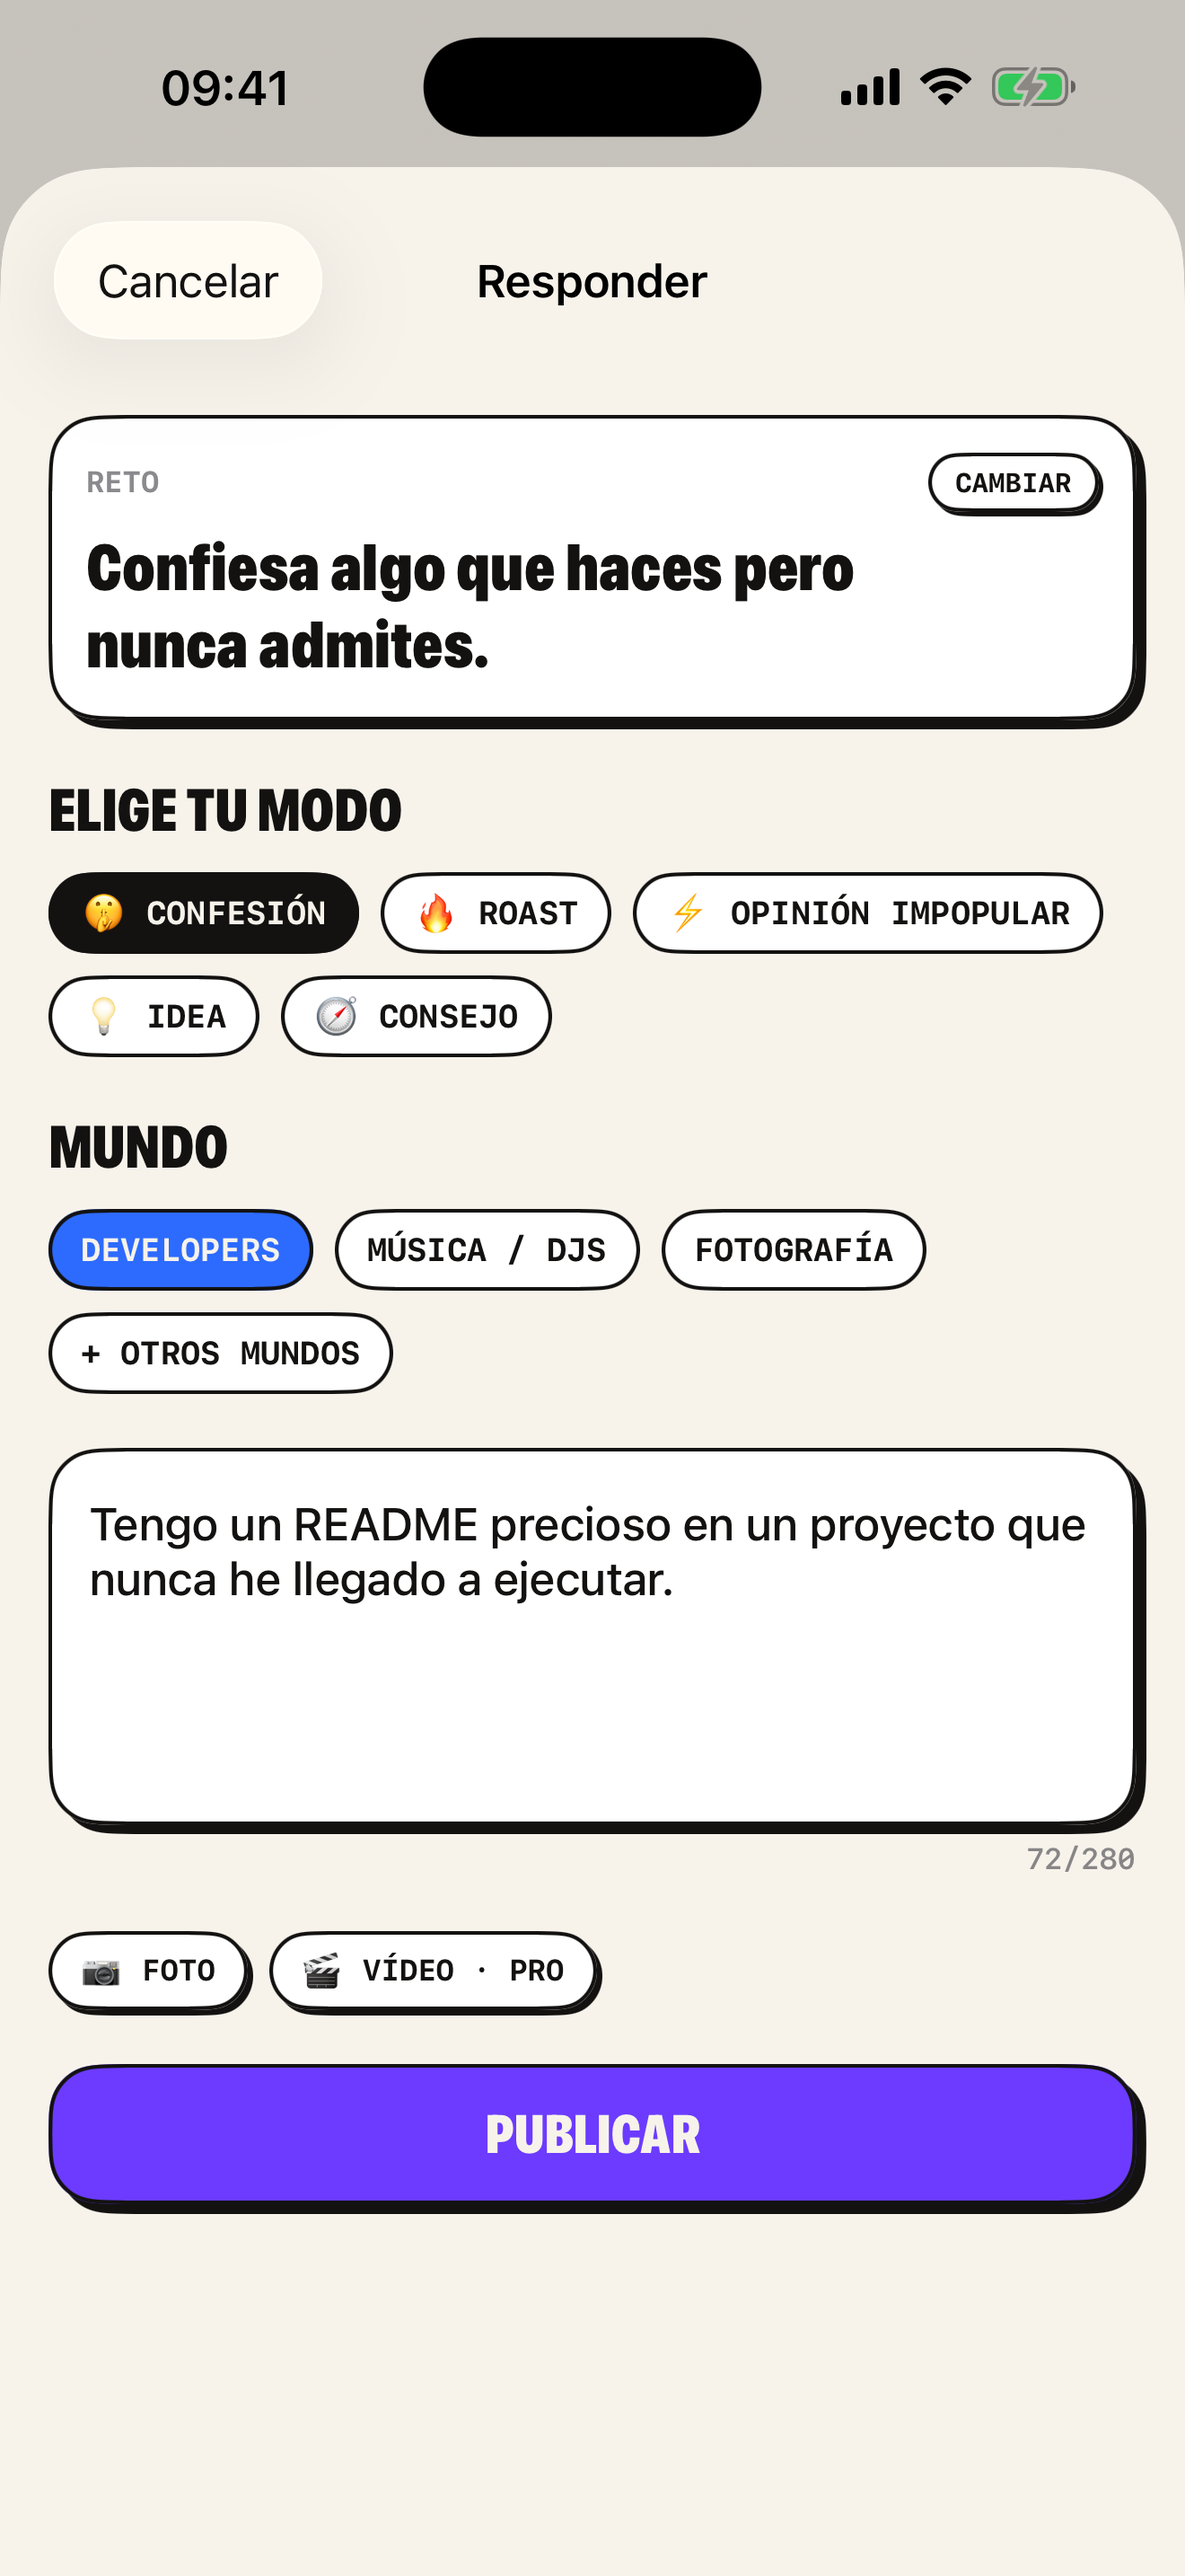
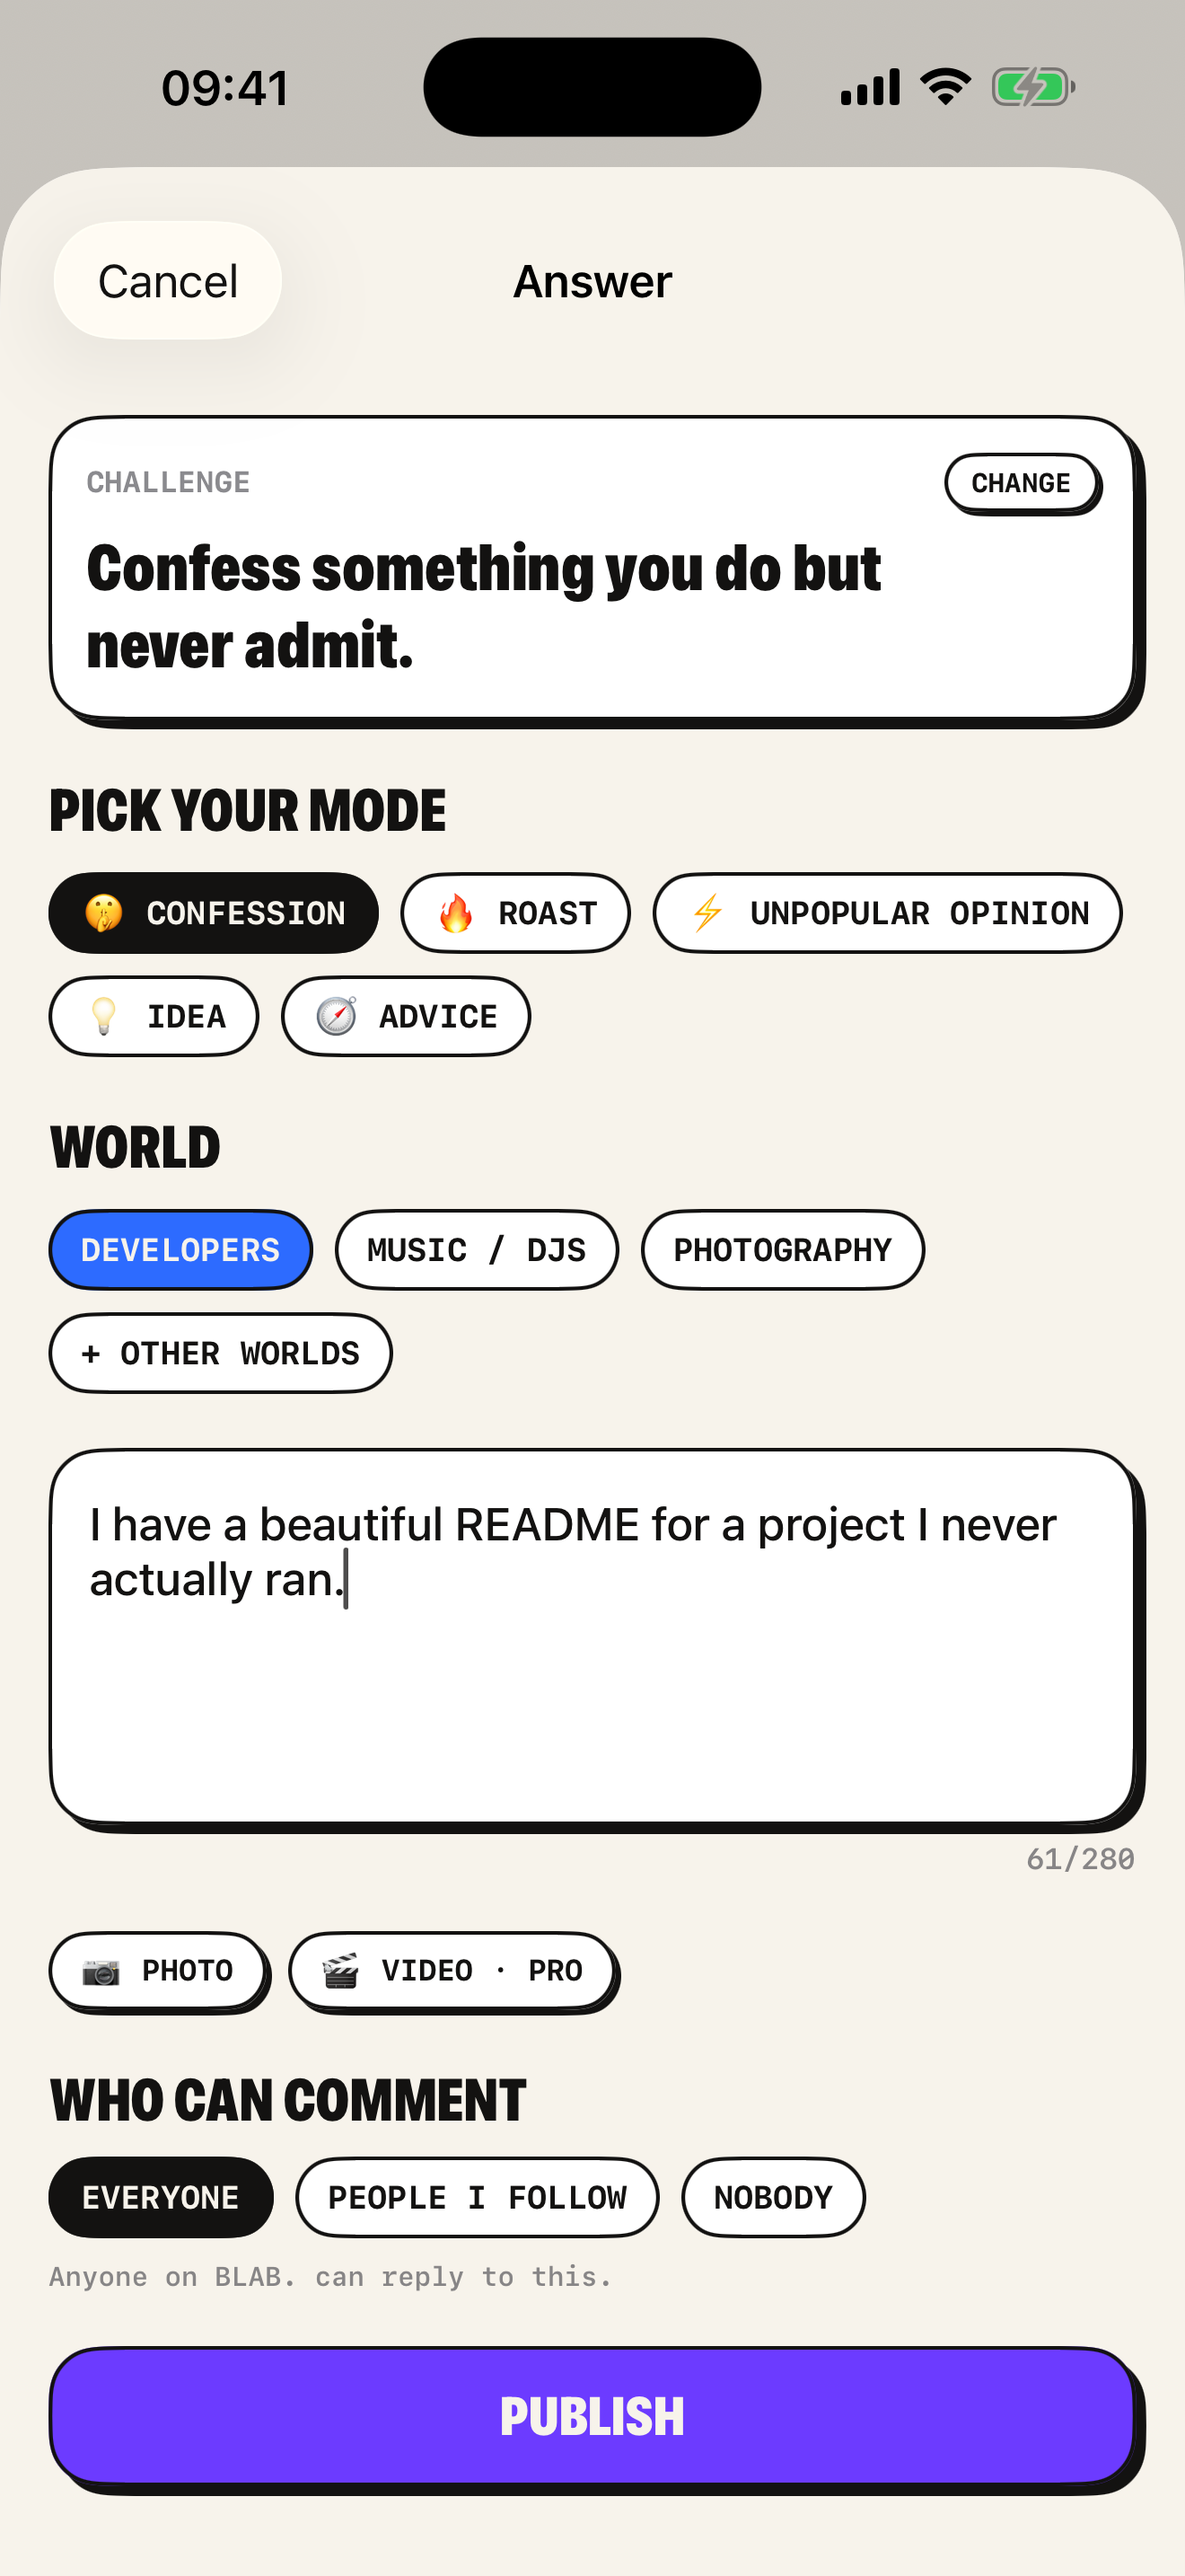
BLAB: English UI captures and matching copy
Replace the ficha screens with the English App Store set (Today,
Answer, Worlds), announce English and Spanish, and use the app's own
mode label "unpopular opinion" instead of "hot take".

Claude-Session: https://claude.ai/code/session_019uTd13EUdhrJdupoBuPZ8c

diff --git a/data/portfolio.ts b/data/portfolio.ts
@@ -259,8 +259,8 @@ export const products: AppProduct[] = [
     statusText: 'LAUNCHING',
     flagship: false,
     platforms: 'iOS',
-    languages: 'Spanish',
-    oneLiner: 'A social app of daily micro-challenges. Answer today’s challenge in your mode — confession, roast, hot take — inside worlds that get your context.',
+    languages: 'English, Spanish',
+    oneLiner: 'A social app of daily micro-challenges. Answer today’s challenge in your mode — confession, roast, unpopular opinion — inside worlds that get your context.',
     tagline: 'Answer challenges. Pick your mode. Stand out.',
     highlight: 'Stand out.',
     lede: 'One challenge a day. Five modes to answer it. Eighteen worlds that get your context. Reactions that mean something — no generic like. Challenge + mode + world = a post with context.',
@@ -274,7 +274,7 @@ export const products: AppProduct[] = [
     ],
     features: [
       { id: '01', title: 'A challenge a day.', desc: 'Every day the app proposes a challenge. Never stare at an empty box again — you always know what to post.' },
-      { id: '02', title: '5 modes.', desc: 'Confession, roast, hot take, idea, advice. Pick how you answer, and everyone knows the tone before they read.' },
+      { id: '02', title: '5 modes.', desc: 'Confession, roast, unpopular opinion, idea, advice. Pick how you answer, and everyone knows the tone before they read.' },
       { id: '03', title: '18 worlds.', desc: 'Developers, photography, music & DJs, fitness, startups, marketing and more. Choose up to five — each with its own challenges.' },
       { id: '04', title: 'Reactions that mean something.', desc: '🙌 That’s me, 💥 Brutal, 🛠 Useful, 🔖 Saved. Four reactions, no generic like.' },
       { id: '05', title: 'Ranking & streak.', desc: 'Global, following, your country or each of your worlds — today, 7 days, 30 days. Keep the streak alive.' },
@@ -282,7 +282,7 @@ export const products: AppProduct[] = [
     ],
     howItWorks: [
       { step: '01', title: 'Pick your worlds', desc: 'Choose up to five worlds that match what you do. That is your feed.' },
-      { step: '02', title: 'Answer in a mode', desc: 'Open today’s challenge, pick confession, roast, hot take, idea or advice, and post.' },
+      { step: '02', title: 'Answer in a mode', desc: 'Open today’s challenge, pick confession, roast, unpopular opinion, idea or advice, and post.' },
       { step: '03', title: 'Stand out', desc: 'Earn reactions, climb the ranking, keep your streak going.' },
     ],
     pricing: [
@@ -291,10 +291,10 @@ export const products: AppProduct[] = [
     ],
     faq: [
       { q: 'What is BLAB?', a: 'A social app where every post starts from a challenge. The app proposes one daily; you answer in a mode, inside a world of people who get your context.' },
-      { q: 'What are modes and worlds?', a: 'A mode is the tone of your answer: confession, roast, hot take, idea or advice. A world is the community it belongs to — developers, photography, music, fitness, startups, marketing and twelve more.' },
+      { q: 'What are modes and worlds?', a: 'A mode is the tone of your answer: confession, roast, unpopular opinion, idea or advice. A world is the community it belongs to — developers, photography, music, fitness, startups, marketing and twelve more.' },
       { q: 'Can I create my own world?', a: 'Not yet. Worlds are a curated catalogue of eighteen so communities don’t fragment. New ones are added by us.' },
       { q: 'Is BLAB free?', a: 'Yes. Pro (€2.99 a month or €24.99 a year) adds video posts up to 15 seconds and the PRO badge.' },
-      { q: 'Where is it available?', a: 'BLAB is launching on iOS, in Spanish first. Android and web are next.' },
+      { q: 'Where is it available?', a: 'BLAB is launching on iOS, in English and Spanish. Android and web are next.' },
     ],
     docs: [],
   },

diff --git a/CLAUDE.md b/CLAUDE.md
@@ -29,7 +29,7 @@ Three small client components, all in `components/`: `index-sheet.tsx` (mobile m
 - `components/cells.tsx` — `AppCell` (MacPaw product tile: name + descriptor, status pill, centred icon, one-liner, "Read more ↗"; dev apps are white outlined and inert), `StudioCell`.
 - Pages: `app/page.tsx` (showcase carousel — radio-driven, no JS except autoplay — with icon dots and a dot/dash indicator; the 4-column app grid incl. dev tiles; the studios banner with the founder photo; the mission band; "Find us across the internet" link cards; three black company cards; three support cards), `app/apps/page.tsx`, `app/studios/page.tsx`, `app/apps/[slug]/page.tsx` (static showcase panel, fact cards, full screenshots on a grey panel, features, steps, pricing with Pro in black, FAQ list, docs buttons, siblings, closing black band), `app/legal/page.tsx`.
 
-**`data/portfolio.ts` is the single source of truth** for products, studios and the `company` identity block (legal name, licence, founder, mission, phone). Every page, `app/sitemap.ts`, the footer columns and the Organization JSON-LD render from it: adding a product there creates its ficha (via `generateStaticParams`), its tile, its showcase slide (if published), its legal entries and its sitemap URL in one edit. Products with `status: 'dev'` render as outlined inert tiles and get no ficha (`getProduct` filters them). `icon`/`screens`/`mark`/`highlight` are data; assets under `public/apps/` are real (origins in `public/apps/PROVENANCE.md`, which also covers the favicon and logotype); never fabricate product UI. BLAB's screens are the Spanish v1 captures, to be recaptured when the English UI ships.
+**`data/portfolio.ts` is the single source of truth** for products, studios and the `company` identity block (legal name, licence, founder, mission, phone). Every page, `app/sitemap.ts`, the footer columns and the Organization JSON-LD render from it: adding a product there creates its ficha (via `generateStaticParams`), its tile, its showcase slide (if published), its legal entries and its sitemap URL in one edit. Products with `status: 'dev'` render as outlined inert tiles and get no ficha (`getProduct` filters them). `icon`/`screens`/`mark`/`highlight` are data; assets under `public/apps/` are real (origins in `public/apps/PROVENANCE.md`, which also covers the favicon and logotype); never fabricate product UI. BLAB's screens are the English UI captures.
 
 SEO plumbing that must stay consistent with portfolio.ts (and with the static routes `/`, `/apps`, `/studios`, `/legal`): `app/sitemap.ts`, `app/robots.ts`, `public/llms.txt`, and the redirects in `next.config.mjs` — legacy URLs (`/apps/subtrackr*`, old per-app legal pages) 301 to each product's own domain. Product legal documents live on the product domains (getcurbapp.com, raved.app, nibango.com), never here; `/legal` is only a directory plus the FZE company identity. `public/google8635ef74ffc17fdf.html` is the Search Console verification — keep it.
 

diff --git a/public/apps/PROVENANCE.md b/public/apps/PROVENANCE.md
@@ -8,7 +8,7 @@ All files are real brand assets; none is generated.
 - curb-screen-1.png, curb-screen-2.png, curb-screen-3.png — captures of the real Curb iOS app (Debug build, iPhone 17 Pro Max simulator on iOS 26.2, 1320×2868) taken on 2026-09-03 with the app's screenshot mode and seeded demo subscriptions; the UI is the shipped app, the subscriptions are demo data.
 - nibango-screen-1.png, nibango-screen-2.png, nibango-screen-3.png — captures of the real Nibango iOS app (Debug build, iPhone 17 Pro Max simulator on iOS 26.2, 1320×2868) taken on 2026-09-03 with the app's screenshot mode and seeded demo listings (royalty-free Unsplash product photos); the UI is the shipped app, the listings and chat are demo data.
 - blab-icon.png — the BLAB app icon, pasted by the owner in the design session on 2026-09-02.
-- blab-screen-1.png, blab-screen-2.png, blab-screen-3.png — captures of the real BLAB iOS app (Debug build, iPhone 17 Pro Max simulator on iOS 26.2, 1320×2868) taken on 2026-09-03 with the app’s `-demoUser` demo profile; copied from the owner’s App Store screenshot set (Hoy, Responder, Mundos). The UI is the shipped app (v1 is Spanish-only; to be recaptured once the English UI ships), the posts are demo data.
+- blab-screen-1.png, blab-screen-2.png, blab-screen-3.png — captures of the real BLAB iOS app (iPhone 17 Pro Max simulator on iOS 26.2, 1320×2868) taken on 2026-09-03 from the English UI with the app’s `-demoUser` demo profile; copied from the owner’s App Store screenshot set (Today, Answer, Worlds). The UI is the shipped app, the posts are demo data.
 - truelove-icon.png — the TrueLoveCreative apple-touch-icon fetched from https://truelovecreative.es/apple-icon.png (owner's studio).
 - estrela-mark.png — the Estrela Photography signature fetched from https://estrela.photo/img/signature.webp (owner's studio), converted to PNG.
 - founder.webp — portrait of Javier Estrela fetched from https://estrela.photo/img/contact-800.webp (owner's own site).
